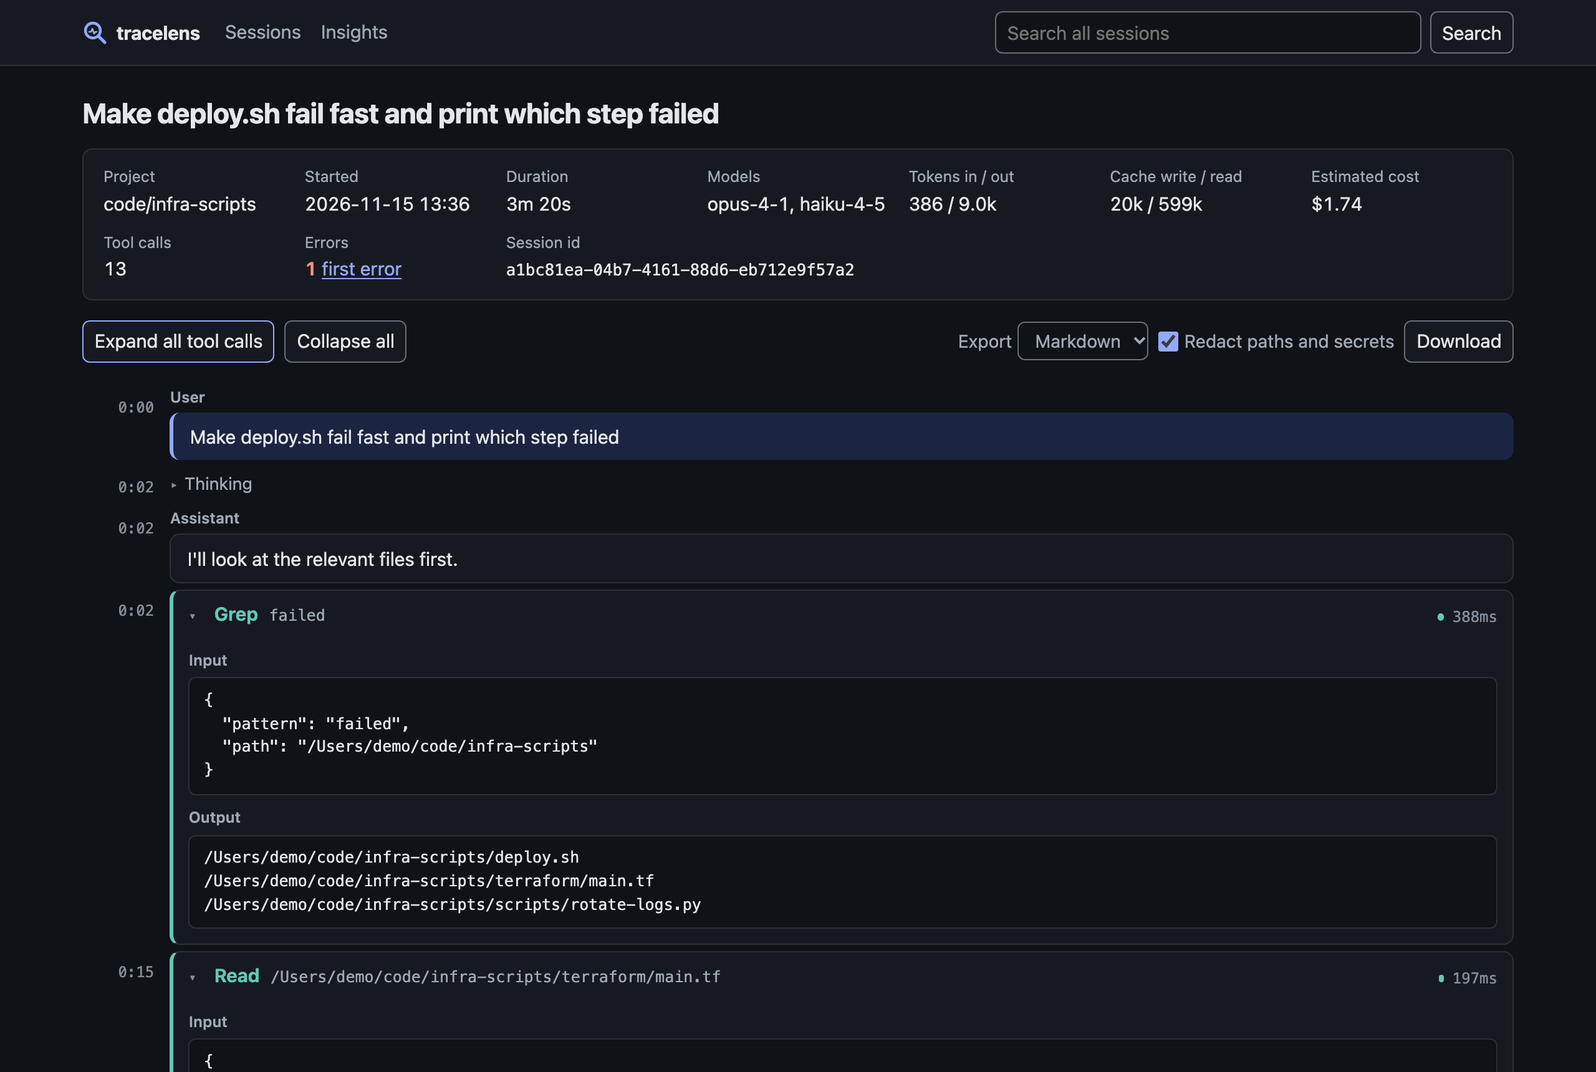
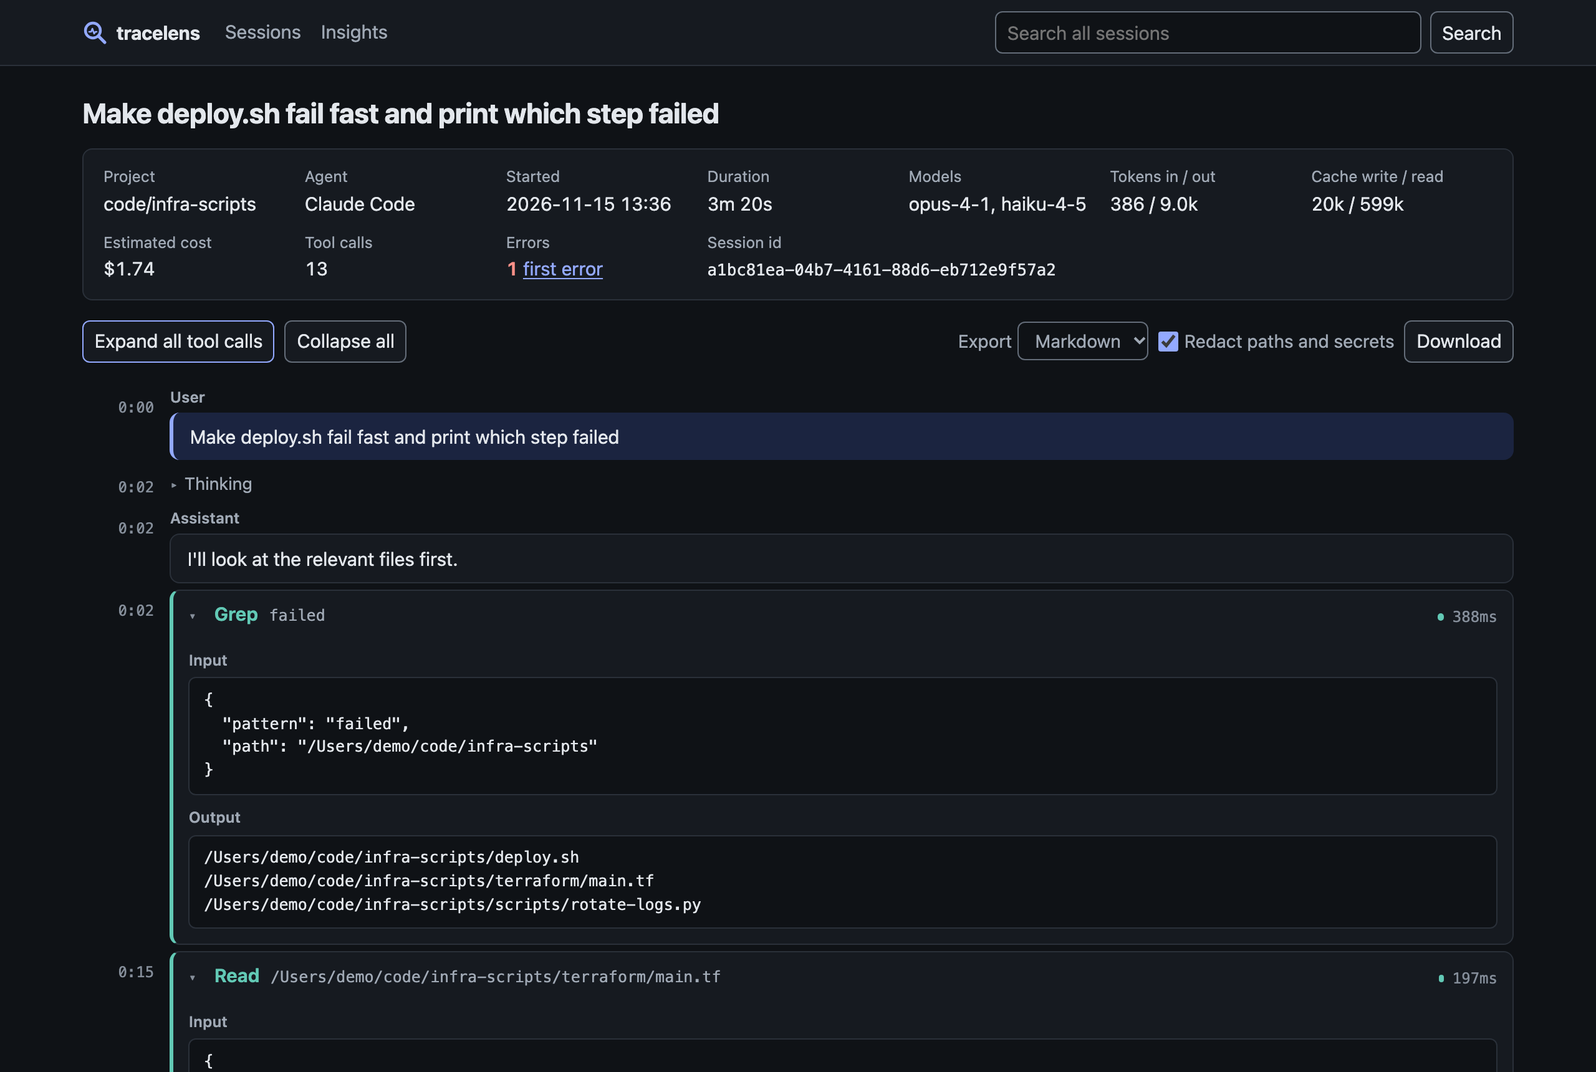
Codex demo data, screenshot, README and changelog
npm run demo now also writes synthetic Codex rollouts and serves them;
the Playwright script captures a Codex session; CI smoke-tests the Codex
fixtures.

diff --git a/scripts/demo-data.ts b/scripts/demo-data.ts
@@ -1,5 +1,5 @@
-// Writes a synthetic Claude Code projects folder for demos and screenshots.
-// Usage: node dist/scripts/demo-data.js <out-dir>   (everything in it is made up)
+// Writes a synthetic Claude Code projects folder (and optionally a Codex sessions folder) for demos and screenshots.
+// Usage: node dist/scripts/demo-data.js <out-dir> [<codex-out-dir>]   (everything in them is made up)
 
 import { mkdirSync, writeFileSync } from 'node:fs';
 import { join } from 'node:path';
@@ -129,3 +129,71 @@ for (let d = 0; d < 14; d++) {
   }
 }
 console.log(`wrote ${n} synthetic sessions to ${out}`);
+
+// ---------------------------------------------------------------- Codex CLI rollouts (optional second folder)
+
+const codexOut = process.argv[3];
+const CODEX_MODELS = ['gpt-5.1-codex', 'gpt-5.3-codex', 'gpt-5.4'];
+
+function codexSession(cwd: string, prompt: string, start: number) {
+  const id = uuid();
+  const p = PROJECTS[cwd];
+  const model = pick(CODEX_MODELS);
+  const lines: object[] = [];
+  let t = start;
+  const rec = (type: string, payload: object) => lines.push({ timestamp: new Date(t).toISOString(), type, payload });
+  const item = (payload: object) => rec('response_item', payload);
+  let total = { input_tokens: 0, cached_input_tokens: 0, output_tokens: 0 };
+  const usage = () => {
+    const input = int(6000, 16000);
+    const last = { input_tokens: input, cached_input_tokens: Math.floor(input * (0.5 + rand() * 0.4)), output_tokens: int(80, 900) };
+    total = { input_tokens: total.input_tokens + last.input_tokens, cached_input_tokens: total.cached_input_tokens + last.cached_input_tokens, output_tokens: total.output_tokens + last.output_tokens };
+    rec('event_msg', { type: 'token_count', info: { total_token_usage: total, last_token_usage: last, model_context_window: 272000 } });
+  };
+  const call = (name: string, args: object | string, output: string, ms: number) => {
+    const call_id = `call_${uuid().slice(0, 12)}`;
+    if (typeof args === 'string') item({ type: 'custom_tool_call', status: 'completed', call_id, name, input: args });
+    else item({ type: 'function_call', name, arguments: JSON.stringify(args), call_id });
+    t += ms;
+    item({ type: typeof args === 'string' ? 'custom_tool_call_output' : 'function_call_output', call_id, output });
+    usage();
+    t += int(2000, 9000);
+  };
+  const shell = (command: string, out: string, code = 0, ms = int(200, 1500)) =>
+    call('shell_command', { command, workdir: cwd }, `Exit code: ${code}\nWall time: ${(ms / 1000).toFixed(1)} seconds\nOutput:\n${out}`, ms);
+
+  rec('session_meta', { id, timestamp: new Date(t).toISOString(), cwd, originator: 'codex_cli_rs', cli_version: '0.63.0', source: 'cli', model_provider: 'openai' });
+  item({ type: 'message', role: 'user', content: [{ type: 'input_text', text: `<environment_context>\n  <cwd>${cwd}</cwd>\n  <shell>zsh</shell>\n</environment_context>` }] });
+  rec('turn_context', { cwd, approval_policy: 'on-request', sandbox_policy: { type: 'workspace-write' }, model, effort: 'medium', summary: 'auto' });
+  item({ type: 'message', role: 'user', content: [{ type: 'input_text', text: prompt }] });
+  rec('event_msg', { type: 'user_message', message: prompt, images: [] });
+  t += int(2000, 5000);
+  item({ type: 'reasoning', summary: [{ type: 'summary_text', text: `**Finding the relevant code**\n\nThe request: ${prompt.toLowerCase()}.` }], content: null, encrypted_content: 'demo' });
+  const f = pick(p.files);
+  shell(`rg -n "timeout" ${p.files.slice(0, 2).join(' ')}`, `${p.files[0]}:12:const timeout = 5000;`);
+  shell(`sed -n '1,40p' ${f}`, "import { config } from './config';\n\nexport function handler(req, res) {\n  // ...\n}");
+  call('apply_patch', `*** Begin Patch\n*** Update File: ${f}\n@@\n-const timeout = 5000;\n+const timeout = config.timeoutMs ?? 5000;\n*** End Patch\n`, `Success. Updated the following files:\nM ${f}\n`, int(50, 300));
+  const fails = rand() < 0.35;
+  shell(p.test, fails ? 'FAIL 1 test\n  expected 200, received 500' : 'Tests: 24 passed', fails ? 1 : 0, int(4000, 30000));
+  if (fails) shell(p.test, 'Tests: 24 passed', 0, int(4000, 30000));
+  item({ type: 'message', role: 'assistant', content: [{ type: 'output_text', text: `Done: ${prompt.replace(/\.$/, '').toLowerCase()}.\n\n- \`${f}\` reads \`config.timeoutMs\` and keeps **5000** as the fallback\n- \`${p.test}\` passes` }] });
+  rec('event_msg', { type: 'agent_message', message: 'Done.' });
+  return { id, lines, start };
+}
+
+if (codexOut) {
+  let c = 0;
+  for (let d = 0; d < 14; d += 2) {
+    const cwd = pick(Object.keys(PROJECTS));
+    const start = day0.getTime() + d * 86_400_000 + 9 * 3_600_000 + int(0, 3_000_000);
+    const s = codexSession(cwd, pick(PROJECTS[cwd].prompts), start);
+    const day = new Date(start);
+    const ymd = [String(day.getFullYear()), String(day.getMonth() + 1).padStart(2, '0'), String(day.getDate()).padStart(2, '0')];
+    const dir = join(codexOut, ...ymd);
+    mkdirSync(dir, { recursive: true });
+    const stamp = new Date(start).toISOString().slice(0, 19).replace(/:/g, '-');
+    writeFileSync(join(dir, `rollout-${stamp}-${s.id}.jsonl`), s.lines.map((l) => JSON.stringify(l)).join('\n') + '\n');
+    c++;
+  }
+  console.log(`wrote ${c} synthetic Codex sessions to ${codexOut}`);
+}

diff --git a/README.md b/README.md
@@ -2,7 +2,7 @@
 
 # tracelens
 
-A local viewer and analytics page for Claude Code session logs: browse every session, search them all, read a transcript with its tool calls, and see where your tokens went.
+A local viewer and analytics page for Claude Code and Codex CLI session logs: browse every session, search them all, read a transcript with its tool calls, and see where your tokens went.
 It runs on your machine, binds to 127.0.0.1, only reads the log files, and sends nothing anywhere.
 
 ![A Claude Code session in tracelens: session metadata, then the transcript with timed tool calls and a nested subagent](docs/screenshots/session.png)
@@ -19,19 +19,23 @@ npm run build
 node dist/src/cli.js serve
 ```
 
-This reads `~/.claude/projects` (or `$CLAUDE_CONFIG_DIR/projects`) and opens <http://127.0.0.1:4180/>.
+This reads Claude Code transcripts from `~/.claude/projects` (or `$CLAUDE_CONFIG_DIR/projects`) and Codex CLI sessions from `~/.codex/sessions` (or `$CODEX_HOME/sessions`), and opens <http://127.0.0.1:4180/>. A folder that does not exist is skipped.
 
-No Claude Code logs on this machine, or want to look first? `npm run demo` generates 25 made-up sessions into `.demo/` and serves those instead.
+No logs on this machine, or want to look first? `npm run demo` generates 25 made-up Claude Code sessions and 7 made-up Codex sessions into `.demo/` and serves those instead.
 
 ## Features
 
+- **Claude Code and Codex CLI** sessions side by side in one list, one search and one set of insights. Codex sessions carry a "Codex" tag.
 - **Session list**: project, start time, duration, models, token totals, estimated cost, tool calls and errors. Filter by project, sort by date, duration, tokens or cost.
 - **Full-text search** across every prompt, reply, tool input and tool output, including subagents. Each hit links to the exact spot in the transcript.
 - **Transcript view**: user turns, assistant replies rendered as Markdown (headings, lists, tables, code blocks; links only for http(s), images never loaded), collapsible thinking, tool calls collapsed to one line (tool, main argument, duration bar) that expand to full input and output. Subagent runs are nested under the Task call that started them. Failed tool calls and API errors are marked in red, and the header links to the first error.
 - **Insights**: tokens and estimated cost per day, per project and per model; most-used tools with error counts and timings; the slowest tool calls; the files edited most often. Filter by time range and project.
 - **Export** a session as Markdown or as a single self-contained HTML file, from the CLI or the session page, optionally with paths and secrets redacted.
+- **Codex transcripts**: prompts, replies (Markdown), reasoning summaries, and tool calls (`shell`, `apply_patch`, MCP tools, …) paired with their output, timed, and marked red when a command exits non-zero. The environment and `AGENTS.md` text Codex adds to each session is collapsed under "Context added by Codex".
 - **Defensive parsing**: records it does not recognise, and lines that are not valid JSON, are shown raw in the transcript instead of breaking the page.
 - Light and dark themes (follows your system), keyboard-friendly, AA text contrast, and a card layout for the session list on phone-sized screens. No JavaScript frameworks and no runtime dependencies.
+
+![A Codex session: the injected context collapsed, timed shell calls, an apply_patch call opened to show the patch, and a failed test run marked in red](docs/screenshots/session-codex.png)
 
 ![The end of a transcript: tool calls with timing bars, a failed Bash call marked in red, and the final reply rendered as Markdown](docs/screenshots/session-reply.png)
 
@@ -45,10 +49,12 @@ tracelens list [--limit 20]                 Print recent sessions and their ids
 tracelens export <session> [options]        Write a transcript as Markdown or HTML
 
   <session>             A session id, a unique id prefix, or a path to a .jsonl file
+                        (a Claude Code transcript or a Codex rollout-*.jsonl)
   -f, --format md|html  Output format (default: from --output extension, else md)
   -o, --output <file>   Write to a file instead of stdout
   --redact              Replace home/project paths, emails and common secret patterns
-  --dir <path>          Claude Code projects folder
+  --dir <path>          Claude Code projects folder (default ~/.claude/projects)
+  --codex-dir <path>    Codex CLI sessions folder (default ~/.codex/sessions)
   --pricing <file>      Pricing table for cost estimates
 ```
 
@@ -58,13 +64,16 @@ Examples:
 node dist/src/cli.js list
 node dist/src/cli.js export 3f2a --redact -o session.md
 node dist/src/cli.js export ~/.claude/projects/-Users-me-app/3f2a….jsonl -o session.html
+node dist/src/cli.js export ~/.codex/sessions/2026/11/20/rollout-2026-11-20T09-12-03-7c1e….jsonl -o codex.md
 ```
 
 To get a `tracelens` command on your PATH, run `npm link` in the repo (it creates a global symlink; `npm unlink -g tracelens` removes it).
 
 ## Cost estimates
 
-Token counts come straight from the logs. Cost is an **estimate**: tokens multiplied by the list prices in [`pricing.json`](pricing.json), in USD per million tokens, with separate rates for input, output, 5-minute and 1-hour cache writes and cache reads. A model id is priced by the longest key it contains, so `claude-sonnet-4-5` also prices `claude-sonnet-4-5-20250929`. Models without a price are counted in tokens and listed as "not priced". Rates are flat per model, so a model with a higher price for very long prompts (Claude Haiku 5.5 above 100K tokens) is estimated at its base rate.
+Token counts come straight from the logs. Cost is an **estimate**: tokens multiplied by the list prices in [`pricing.json`](pricing.json), in USD per million tokens, with separate rates for input, output, 5-minute and 1-hour cache writes and cache reads. A model id is priced by the longest key it contains, so `claude-sonnet-4-5` also prices `claude-sonnet-4-5-20250929`. Models without a price are counted in tokens and listed as "not priced". Rates are flat per model, so a model with a higher price for very long prompts (Claude Haiku 5.5 above 100K tokens, OpenAI's gpt-5.4 and later above 272K) is estimated at its base rate.
+
+OpenAI models (used by Codex) are in the same file: `input` is the uncached input rate, `cacheRead` the cached-input rate, and the cache-write rates are 0 because OpenAI does not charge for them. Codex logs count cached tokens inside the input total and reasoning tokens inside the output total; tracelens splits the cached part out and prices reasoning as output, as OpenAI bills it. A version suffix never borrows another version's price: `gpt-5` prices `gpt-5-codex` but not `gpt-5.2`, and a variant without its own row (such as `gpt-5.1-codex-mini`) is priced as its base model (`gpt-5.1`), so add a row if its price differs.
 
 Edit `pricing.json` to match your rates, or pass your own file with `--pricing`. If you use a subscription plan you are not billed per token, so treat the number as a measure of usage, not a bill.
 
@@ -80,19 +89,20 @@ It is pattern matching, so read an export before you share it.
 
 ## How it works
 
-- **Discovery.** Claude Code keeps one JSONL file per session in `~/.claude/projects/<encoded-folder>/<session-id>.jsonl`. Subagent logs live either inline (records with `isSidechain: true`), in `<session-id>/subagents/*.jsonl`, or in `agent-*.jsonl` files next to the sessions. tracelens handles all three.
+- **Discovery.** Claude Code keeps one JSONL file per session in `~/.claude/projects/<encoded-folder>/<session-id>.jsonl`. Subagent logs live either inline (records with `isSidechain: true`), in `<session-id>/subagents/*.jsonl`, or in `agent-*.jsonl` files next to the sessions. tracelens handles all three. Codex CLI writes one `rollout-<time>-<session-id>.jsonl` per session under `~/.codex/sessions/YYYY/MM/DD/`.
 - **Parsing** ([`src/claude.ts`](src/claude.ts)) turns records into a small normalized model ([`src/types.ts`](src/types.ts)): user and assistant messages, thinking, tool calls paired with their results, system events, and raw items for anything else. Claude Code writes one line per content block and repeats the message's usage on each, so usage is counted once per API message id. Claude Code's own bookkeeping is kept out of the way: `file-history-snapshot` records (checkpoint backups) are skipped, `<synthetic>` messages it writes locally add no usage, post-compaction summaries are shown as system notes rather than user turns, and files that hold nothing but summary lines are not listed as sessions. A tool call's duration is the time between the call and its result. A subagent is attached to the Task call whose `prompt` matches the subagent's first message (in start order, so repeated identical prompts pair up correctly); subagents that match nothing are listed at the end of the transcript.
+- **Codex parsing** ([`src/codex.ts`](src/codex.ts)) reads `{timestamp, type, payload}` lines into the same model. The transcript comes from `response_item` lines (messages, reasoning summaries, `function_call`/`custom_tool_call` paired with their `*_call_output` by `call_id`); the `event_msg` copies of the same prompts, replies and commands are skipped. A tool call failed when its output starts with a non-zero `Exit code:` / `Process exited with code`, when older JSON-wrapped output has a non-zero `metadata.exit_code`, or when the output says `success: false`. Token usage comes from `token_count` events: their `total_token_usage` is cumulative and often repeated, so each event counts only the growth since the previous one. The model is the one from the latest `turn_context`. Files from before the envelope format (a bare metadata line, then bare response items) are read too. Codex has no subagent logs to nest.
 - **Serving** ([`src/server.ts`](src/server.ts)) uses Node's `http` module and renders HTML on the server. Parsed sessions are cached and a file is re-read only when its size or modification time changes, so new sessions show up on reload.
-- **Read-only.** Log files are opened for reading only. `export -o` refuses to write inside the log folder or to any `.jsonl` file.
+- **Read-only.** Log files are opened for reading only. `export -o` refuses to write inside either log folder or to any `.jsonl` file.
 - **Local only.** The server listens on 127.0.0.1, answers only requests addressed to `127.0.0.1`, `localhost` or `[::1]` on its own port (which blocks DNS-rebinding pages), only accepts GET, and sends a strict Content-Security-Policy. Other websites (and other servers on 127.0.0.1) can link to a tracelens page, but the browser's Fetch Metadata headers let tracelens refuse their attempts to load pages as images, scripts, frames or fetches, so they cannot time searches over your transcripts. All transcript text is HTML-escaped. The page loads no fonts, scripts or images from the internet, and an exported HTML file carries its own Content-Security-Policy.
 - **No login.** There is no password or token: any program running on your machine, under any user account, can read the web UI while `tracelens serve` runs. On a shared machine, stop it when you are done.
-- **Session URLs** are `/session/<project folder>/<session id>`, because the same session id can appear in more than one project folder.
+- **Session URLs** are `/session/<folder>/<session id>`, because the same session id can appear in more than one Claude Code project folder. For a Codex session the folder is the day folder (`/session/20/<id>`).
 
-The Claude Code log format is internal to Claude Code and changes between versions. tracelens was written against synthetic fixtures modelled on the documented layout and field names (`type`, `message`, `usage`, `isSidechain`, `toolUseResult`, …), not against a captured real log, so expect to see some events shown raw; they are never dropped.
+Both log formats are internal to their tools and change between versions. tracelens was written against synthetic fixtures modelled on the documented layout and field names (Claude Code: `type`, `message`, `usage`, `isSidechain`, `toolUseResult`, …; Codex: `session_meta`, `turn_context`, `response_item`, `event_msg`, `token_count`, …, taken from published schema notes), not against captured real logs, so expect to see some events shown raw; they are never dropped.
 
 ### Adding another log format
 
-The UI, search, insights and exporters only read the `Session` type in [`src/types.ts`](src/types.ts). A Codex CLI adapter would be a module that finds Codex session files and returns `Session` objects, plus a line in [`src/store.ts`](src/store.ts) to include them. It is on the roadmap.
+The UI, search, insights and exporters only read the `Session` type in [`src/types.ts`](src/types.ts). An adapter is a module with a `discover(dir)` that lists session files and a `parse(files)` that returns a `Session`, plus one line in [`src/store.ts`](src/store.ts). [`src/codex.ts`](src/codex.ts) is a small example.
 
 ## Development
 
@@ -104,11 +114,10 @@ npm run demo           # synthetic data on http://127.0.0.1:4180
 node scripts/screenshots.mjs http://127.0.0.1:4180   # Playwright check + screenshots (needs `npx playwright install chromium` once)
 ```
 
-The test fixtures in `test/fixtures/projects` are hand-made and cover split assistant messages, inline and file-based subagents, an orphan subagent, tool errors, API errors, meta messages, unknown event types and a truncated line.
+The test fixtures are hand-made. `test/fixtures/projects` (Claude Code) covers split assistant messages, inline and file-based subagents, an orphan subagent, tool errors, API errors, meta messages, unknown event types and a truncated line. `test/fixtures/codex` covers injected context, duplicate events, plain-text and JSON-wrapped shell output, an `apply_patch` call, a call with no result, repeated `token_count` totals, an error event, unknown event types, a truncated line, and the older pre-envelope layout.
 
 ## Roadmap
 
-- Codex CLI adapter.
 - Show rewound or edited conversation branches as a tree instead of file order.
 - A search index for very large histories (search is a linear scan today).
 - CSV export of the insights tables.

diff --git a/CHANGELOG.md b/CHANGELOG.md
@@ -4,6 +4,28 @@ All notable changes to this project are documented here. The format follows [Kee
 
 ## [Unreleased]
 
+### Added (round 4, feature: Codex CLI adapter)
+
+- Codex CLI sessions are read next to Claude Code ones: `~/.codex/sessions/YYYY/MM/DD/rollout-*.jsonl` (or `$CODEX_HOME/sessions`, or `--codex-dir <path>`). They appear in the same session list (tagged "Codex"), search, insights and exports, and `tracelens export` takes a rollout file path. New module `src/codex.ts`.
+- What a Codex transcript shows: prompts, replies as Markdown, reasoning summaries, tool calls paired with their output by `call_id` and timed, failures from non-zero exit codes (plain-text `Exit code: N` / `Process exited with code N`, or the older JSON-wrapped `metadata.exit_code`, or `success: false`), `error` events in red, `turn_aborted` / compaction notes. The environment, permissions and `AGENTS.md` text Codex injects is collapsed under "Context added by Codex". `event_msg` copies of prompts, replies and commands are skipped; unknown event types are shown raw.
+- Codex token usage: `token_count` totals are cumulative and often repeated, so each one counts only its growth over the previous one (falling back to `last_token_usage` if the total shrinks). Cached input is counted as cache reads.
+- `apply_patch` calls count toward "Files edited most often" (relative patch paths are resolved against the session's folder), and their one-line label lists the patched files. Shell argv (`["bash","-lc","…"]`) and `cmd` arguments get readable labels.
+- `pricing.json`: OpenAI list prices (gpt-5 through gpt-6.2, short-context tier), checked against OpenAI's pricing page on 2026-11-22.
+- Session header and Markdown export name the agent (Claude Code or Codex).
+- `npm run demo` also writes 7 synthetic Codex sessions to `.demo/codex`; `scripts/screenshots.mjs` adds `session-codex.png`.
+
+### Changed (round 4)
+
+- A pricing key no longer matches a model id that continues with `.<digit>`: `gpt-5` prices `gpt-5-codex` but not `gpt-5.2` (an unknown version is now "not priced" instead of silently priced as an older one).
+- The `export -o` guard refuses both log folders; its message now says "a log folder".
+
+### Notes for the next person (round 4)
+
+- Chosen because it was the top roadmap item, part of the original brief, and the one thing a Codex user could not work around. The Codex format was built from published third-party schema notes and synthetic fixtures (`test/fixtures/codex`), never from a real `~/.codex` log. First thing to do with real logs: look for "Unrecognized" rows and tool calls with no result.
+- Tests never read the real Codex folder: CLI tests set `CODEX_HOME` to an empty temp path; the store only reads Codex when given a folder. Anyone running `serve`/`list` by hand without `--codex-dir` reads the real default folder, which is the point for a user but worth knowing on a shared build machine.
+- Not handled: Codex `history.jsonl`, archived sessions (`~/.codex/archived_sessions`), Codex subagents/collaboration tools (shown as ordinary tool calls), the long-context price tier. `web_search_call` items show as a `web_search` tool call with no recorded result. Pricing rows for variants without a published price (`gpt-5.1-codex-mini`, `gpt-5.1-codex-max`) fall back to their base model's price.
+- Codex session URLs use the day folder (`/session/20/<id>`): ids are UUIDs, so they do not collide.
+
 ### Security (round 3, security pass)
 
 - Redaction no longer takes quadratic time on long runs of characters. The email, URL-password, `key=value` and JWT patterns rescanned a run from every position, so 200 KB of crafted tool output took about 5 minutes to export with `--redact`. The web UI's export redacts by default, and the server is single-threaded, so this froze every page. The same 3.2 MB test input now takes milliseconds. Assignments nested in other values (`url: https://x?token=…`) are still found.
